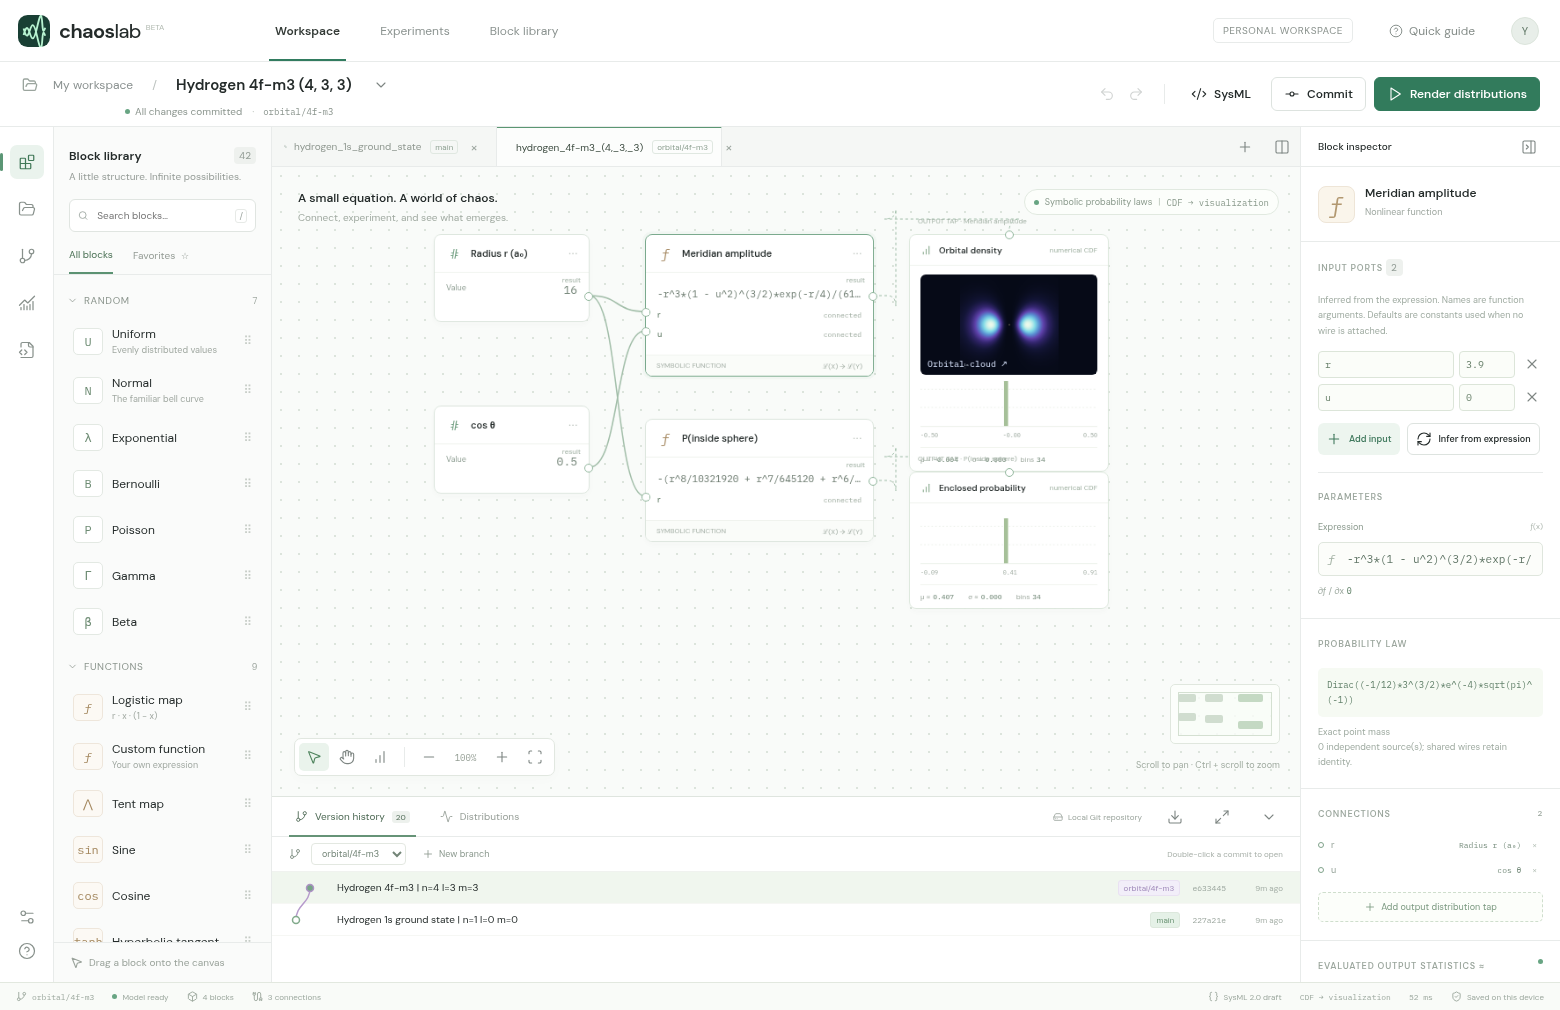
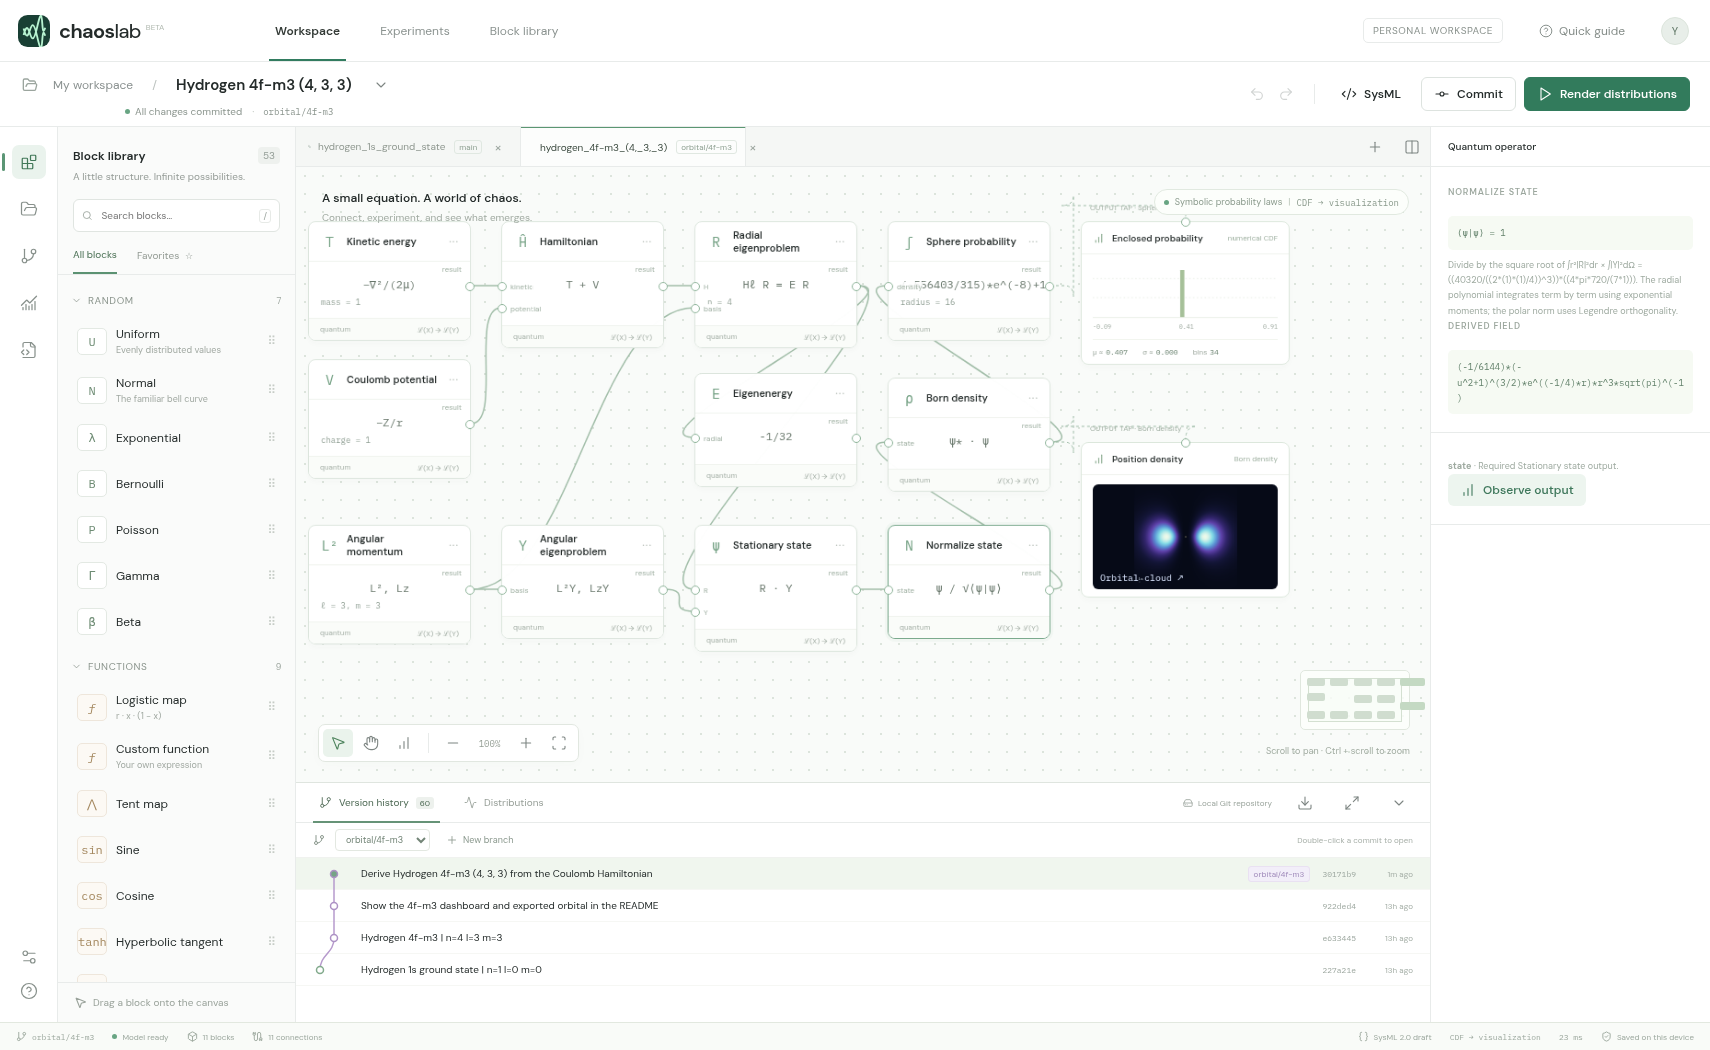
Show the derived state and operator graph for orbital/4f-m3

diff --git a/README.md b/README.md
@@ -4,6 +4,8 @@ Open **Version history** in Chaos Lab to explore the 20 hydrogen designs in this
 
 ## Hydrogen 4f (n = 4, ℓ = 3, m = 3)
 
+The connected Hamiltonian and eigenstate solvers give $E=-1/32$ Hartree for this state.
+
 ![Chaos Lab dashboard with the 4f model, m = 3, open in version history](dashboard.png)
 
 Radial nodes: 0. Polar nodes: 0. Plot half-width: 32 Bohr radii.
@@ -22,7 +24,7 @@ cd hydrogen_wavefunction
 python studio.py
 ```
 
-On Windows you can use `py studio.py`. On Linux you can use `python3 studio.py`. The first launch downloads the pinned Chaos Lab browser build. Double-click a commit to open it in a tab. Open another and use **Split view** to compare them. **Orbital cloud ↗** opens the spatial plots. The launcher reads the Git objects from your clone, including origin branches. Run `git fetch origin` and restart the launcher to load new remote branches.
+On Windows you can use `py studio.py`. On Linux you can use `python3 studio.py`. The first launch downloads the pinned Chaos Lab browser build. Double-click a commit to open it in a tab. Open another and use **Split view** to compare them. **Orbital cloud ↗** opens the spatial plots. The launcher reads the Git objects from your clone, including origin branches. For an existing clone, update the checked-out branch with `git pull --ff-only`, fetch the other branches with `git fetch origin`, and restart the launcher. Double-click the latest commit for the design you want to explore.
 
 To compare states with the same radial law, open `orbital/2p-m0` and `orbital/2p-m1`. At the same radius their enclosed-probability probes agree. The first slice is dark on the equatorial plane, while the second is dark along the polar axis.
 
@@ -32,7 +34,17 @@ To compare states with the same radial law, open `orbital/2p-m0` and `orbital/2p
 
 Branch names encode `(n, ℓ, m)`. For example, `orbital/3d-m1` is `(3,2,1)`. Each snapshot includes the editable graph, its compiled symbolic representation, and its SysML text. Each excited-state branch also contains a reference cross-section.
 
-Coordinates are in Bohr radii. These are normalized fixed-proton, nonrelativistic spatial eigenstates in the complex spherical-harmonic basis. For a fixed m the azimuthal phase is exp(i m φ), so probability density is axially symmetric. The graph evaluates the real meridian amplitude at φ = 0 using radius r and u = cos θ. Its square is probability per unit volume. The sphere probe integrates the radial Born law. The field tap sweeps the same amplitude expression for the x–z slice and its projected detections. Detections are drawn for display from a numerical grid of the final density including the r² volume factor. Brightness and plotting windows are scaled per orbital.
+## How the graph derives this orbital
+
+1. **Kinetic energy** and **Coulomb potential** supply the relative-coordinate operators in atomic units. Their wires feed **Hamiltonian**, which constructs $H=-\nabla^2/(2\mu)-Z/r$. The default is a fixed proton, $Z=\mu=1$.
+2. **Angular momentum** selects the joint eigenvalues of $L^2$ and $L_z$. **Radial eigenproblem** uses that angular eigenvalue in the centrifugal term. Regularity at the origin, decay at infinity, and radial-series termination give the polynomial and energy. **Angular eigenproblem** constructs the polar polynomial by Rodrigues differentiation and includes the phase $e^{im\phi}$.
+3. **Stationary state** multiplies the separated basis functions. **Normalize state** computes their norm with the spherical volume measure. **Born density** takes the squared modulus of the normalized state. **Sphere probability** integrates that density to the probe radius.
+4. Select a block to inspect its equation and derivation. Change **Nuclear charge** from 1 to 2. The energy becomes four times more negative and the orbital contracts by a factor of two. The plot rescales with the orbital, so use its Bohr-radius scale bar to see the change.
+
+The central slice evaluates the final density in the x–z plane. Projected detections sample the final density on a finite radial and angular grid with the spherical volume factor. Coordinates use Bohr radii and energy uses Hartree.
+
+The branch stores the operator graph in `model.json`, its derived fields and scalar laws in `model.symbolic.json`, and the block connections in `model.sysml`. With SymPy installed, run `python tools/verify_state.py` in a checkout of this branch to check the eigenvalue equations, normalization, radial reference solution and sphere integral.
+
 
 | n | ℓ | m | Design branch |
 |---|---|---|---|
